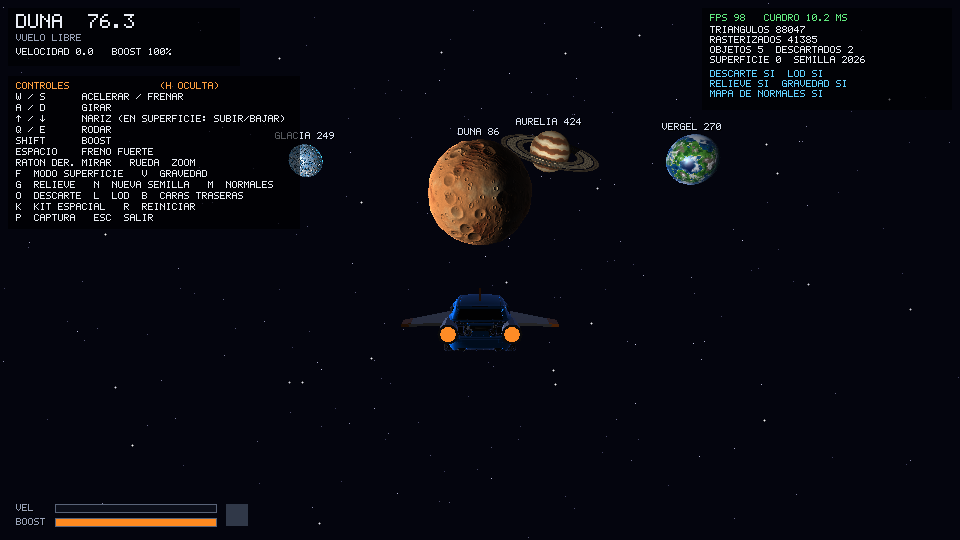
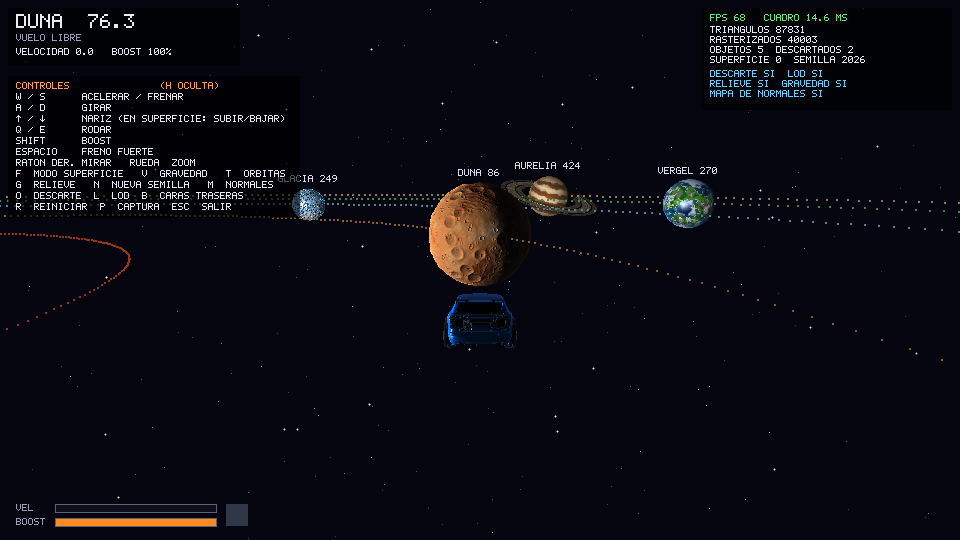
Lineas de las orbitas de los planetas y tecla T

diff --git a/src/scene.cpp b/src/scene.cpp
@@ -172,6 +172,7 @@ void Scene::build(unsigned seed) {
     dune.spinPeriod = 40.0f;
     dune.axialTilt = radians(15.0f);
     dune.surfaceGravity = 10.0f;
+    dune.orbitColor = {0.95f, 0.6f, 0.3f};
     bodies.push_back(std::move(dune));
 
     // Las fases iniciales estan elegidas para que, desde donde arranca el
@@ -187,6 +188,7 @@ void Scene::build(unsigned seed) {
     glacia.spinPeriod = 50.0f;
     glacia.axialTilt = radians(-25.0f);
     glacia.surfaceGravity = 7.0f;
+    glacia.orbitColor = {0.55f, 0.85f, 1.0f};
     bodies.push_back(std::move(glacia));
 
     CelestialBody vergel;
@@ -200,6 +202,7 @@ void Scene::build(unsigned seed) {
     vergel.spinPeriod = 70.0f;
     vergel.axialTilt = radians(10.0f);
     vergel.surfaceGravity = 12.0f;
+    vergel.orbitColor = {0.4f, 0.9f, 0.45f};
     vergel.cloudPeriod = 150.0f;
     bodies.push_back(std::move(vergel));
 
@@ -214,6 +217,7 @@ void Scene::build(unsigned seed) {
     aurelia.spinPeriod = 90.0f;
     aurelia.axialTilt = radians(20.0f);
     aurelia.surfaceGravity = 14.0f;
+    aurelia.orbitColor = {0.95f, 0.8f, 0.55f};
     // Tres anillos con huecos entre ellos (los huecos son geometria real).
     aurelia.ring.materials = {Material{"Anillo interior", {0.70f, 0.62f, 0.50f}},
                               Material{"Anillo medio", {0.90f, 0.82f, 0.68f}},
@@ -235,6 +239,7 @@ void Scene::build(unsigned seed) {
     ignis.spinPeriod = 35.0f;
     ignis.axialTilt = radians(5.0f);
     ignis.surfaceGravity = 9.0f;
+    ignis.orbitColor = {1.0f, 0.35f, 0.1f};
     bodies.push_back(std::move(ignis));
 
     // Hornear las superficies de todos los cuerpos al mismo tiempo (cada
@@ -290,6 +295,23 @@ void Scene::drawStars(Framebuffer& fb, const Uniforms& u) const {
             fb.setPixel(x - 1, y, dim);
             fb.setPixel(x, y + 1, dim);
             fb.setPixel(x, y - 1, dim);
+        }
+    }
+}
+
+void Scene::drawOrbits(Framebuffer& fb, const Uniforms& u) const {
+    // La orbita es el mismo circulo que recorre position(): radio orbitRadius
+    // en el plano XZ, alrededor del sol (que esta en el origen). Se dibuja
+    // como puntos repartidos sobre el circulo, mas apagados que el planeta.
+    const int DOTS = 512;
+    for (const CelestialBody& b : bodies) {
+        if (b.orbitPeriod <= 0.0f) continue; // el sol no orbita
+        Vec3 c = b.orbitColor * 0.6f;
+        uint32_t argb = 0xFF000000u | ((uint32_t)(c.x * 255) << 16) | ((uint32_t)(c.y * 255) << 8) | (uint32_t)(c.z * 255);
+        for (int i = 0; i < DOTS; ++i) {
+            float a = 2.0f * PI * i / DOTS;
+            Vec3 p{b.orbitRadius * std::sin(a), 0.0f, b.orbitRadius * std::cos(a)};
+            drawPoint3D(fb, u, p, argb, 2);
         }
     }
 }

diff --git a/src/main.cpp b/src/main.cpp
@@ -185,6 +185,7 @@ int main(int argc, char* argv[]) {
     unsigned propSeed = 2026;
     bool flatTerrain = false;
     bool showHelp = true;
+    bool showOrbits = true; // tecla T: lineas de las orbitas de los planetas
     bool noNormalMap = false;
     Optimizations opt;
     for (int i = 1; i < argc; ++i) {
@@ -362,6 +363,7 @@ int main(int argc, char* argv[]) {
                     case SDLK_o: opt.cullObjects = !opt.cullObjects; break;
                     case SDLK_n: scene.buildProps(scene.propSeed + 1); break; // otra semilla de distribucion
                     case SDLK_v: ship.gravityEnabled = !ship.gravityEnabled; break;
+                    case SDLK_t: showOrbits = !showOrbits; break;
                     case SDLK_m: u.normalMapping = !u.normalMapping; break;
                     case SDLK_h:
                         showHelp = !showHelp;
@@ -405,6 +407,7 @@ int main(int argc, char* argv[]) {
         stats.reset();
         scene.drawStars(fb, u);
         scene.drawBodies(fb, u, stats, opt);
+        if (showOrbits) scene.drawOrbits(fb, u);
 
         // El carro tambien pasa por el descarte y el nivel de detalle: si
         // se ve pequeno (camara lejos) basta con el modelo reducido.

diff --git a/src/scene.h b/src/scene.h
@@ -28,6 +28,7 @@ struct CelestialBody {
     float axialTilt = 0.0f;   // inclinacion del eje de rotacion (radianes)
     float cloudPeriod = 0.0f; // segundos para que las nubes den una vuelta (0 = sin nubes)
     float surfaceGravity = 0.0f; // atraccion en la superficie (unidades/s^2)
+    Vec3 orbitColor{0.5f, 0.5f, 0.5f}; // color de la linea de su orbita
 
     // Objetos sobre la superficie, ya unidos en una sola malla en el espacio
     // local del planeta (sin escala). Solo se dibujan cuando el planeta esta cerca.
@@ -83,4 +84,8 @@ struct Scene {
     // rotacion de la vista (sin traslacion) y la proyeccion.
     void drawStars(Framebuffer& fb, const Uniforms& u) const;
     void drawBodies(Framebuffer& fb, Uniforms& u, RenderStats& stats, const Optimizations& opt) const;
+
+    // Trayectoria de cada planeta alrededor del sol: un circulo punteado del
+    // color del planeta, con prueba de profundidad (lo tapan los cuerpos).
+    void drawOrbits(Framebuffer& fb, const Uniforms& u) const;
 };

diff --git a/src/hud.cpp b/src/hud.cpp
@@ -85,7 +85,7 @@ void drawHud(Framebuffer& fb, const HudInfo& info) {
             "SHIFT      BOOST",
             "ESPACIO    FRENO FUERTE",
             "RATON DER. MIRAR   RUEDA  ZOOM",
-            "F  MODO SUPERFICIE   V  GRAVEDAD",
+            "F  MODO SUPERFICIE   V  GRAVEDAD   T  ORBITAS",
             "G  RELIEVE   N  NUEVA SEMILLA   M  NORMALES",
             "O  DESCARTE  L  LOD  B  CARAS TRASERAS",
             "R  REINICIAR  P  CAPTURA  ESC  SALIR",

diff --git a/README.md b/README.md
@@ -4,7 +4,7 @@ Un pequeño sistema solar que se explora manejando el **Fennec de Rocket League*
 espacial. Todo se dibuja con un **renderizador por software propio** escrito en C++: SDL2 solo
 abre la ventana, lee el teclado y muestra el framebuffer que calcula el programa.
 
-![Vista inicial con los tres planetas y el HUD](docs/capturas/01_inicio.png)
+![Vista inicial con los planetas, sus órbitas y el HUD](docs/capturas/01_inicio.png)
 
 El sistema tiene un sol animado y cinco planetas con identidad propia que orbitan y giran según el
 tiempo transcurrido:
@@ -25,7 +25,8 @@ sin pantallas de carga ni cambios de escena.
 | ![Duna](docs/capturas/02_duna.png) | ![Glacia](docs/capturas/03_glacia.png) |
 | ![Vergel](docs/capturas/04_vergel.png) | ![Sol animado](docs/capturas/05_sol.png) |
 | ![Aurelia y sus anillos](docs/capturas/08_aurelia.png) | ![Ignis](docs/capturas/09_ignis.png) |
-| ![Boost saliendo de los escapes del Fennec](docs/capturas/10_boost.png) | ![Trayectoria prevista por la gravedad](docs/capturas/06_gravedad.png) |
+| ![Vista general: el sol y las órbitas de los cinco planetas](docs/capturas/11_orbitas.png) | ![Boost saliendo de los escapes del Fennec](docs/capturas/10_boost.png) |
+| ![Trayectoria prevista por la gravedad](docs/capturas/06_gravedad.png) | |
 
 ---
 
@@ -131,6 +132,7 @@ Al arrancar tarda unos **3 segundos** en generar las superficies del sol y los p
 | Rueda del ratón | Acercar o alejar la cámara del carro |
 | `F` | Activar o desactivar el modo superficie |
 | `V` | Activar o desactivar la gravedad |
+| `T` | Mostrar u ocultar las líneas de las órbitas de los planetas |
 | `G` | Duna deformada o como esfera lisa |
 | `M` | Activar o desactivar los mapas de normales del carro |
 | `N` | Nueva semilla para los objetos de superficie |
